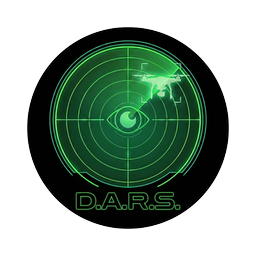
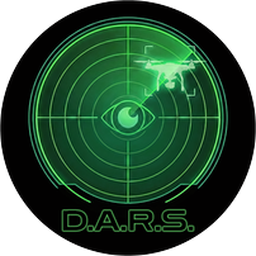
v0.6.1: fix CI — declare http/frontend deps; ignore license check
- hassfest: add 'http' and 'frontend' to manifest dependencies (the card is
  served via hass.http static paths + frontend.add_extra_js_url).
- HACS: ignore the license check — PolyForm Noncommercial isn't SPDX-detected
  by GitHub, so this ships as a HACS custom repository (not the default store).
- Sync trimmed brand icons into the staged brands/ copies (submitted to
  home-assistant/brands#11114).

diff --git a/custom_components/dars_remote_id/dars-map-card.js b/custom_components/dars_remote_id/dars-map-card.js
@@ -13,7 +13,7 @@
  * © D.A.R.S. — getdars.com
  */
 
-const DARS_CARD_VERSION = '0.6.0';
+const DARS_CARD_VERSION = '0.6.1';
 const LEAFLET_VER = '1.9.4';
 const MAPLIBRE_VER = '4.7.1';
 const MGL_LEAFLET_VER = '0.0.22';

diff --git a/www/dars-map-card.js b/www/dars-map-card.js
@@ -13,7 +13,7 @@
  * © D.A.R.S. — getdars.com
  */
 
-const DARS_CARD_VERSION = '0.6.0';
+const DARS_CARD_VERSION = '0.6.1';
 const LEAFLET_VER = '1.9.4';
 const MAPLIBRE_VER = '4.7.1';
 const MGL_LEAFLET_VER = '0.0.22';

diff --git a/custom_components/dars_remote_id/const.py b/custom_components/dars_remote_id/const.py
@@ -6,7 +6,7 @@ DOMAIN = "dars_remote_id"
 
 # Bundled Lovelace card that the integration serves + auto-registers on the
 # frontend. Bump when dars-map-card.js changes (used as a cache-busting query).
-CARD_VERSION = "0.6.0"
+CARD_VERSION = "0.6.1"
 CARD_FILENAME = "dars-map-card.js"
 
 # GATT UUIDs — full 128-bit forms of the 16-bit UUIDs the D.A.R.S. firmware exposes.
